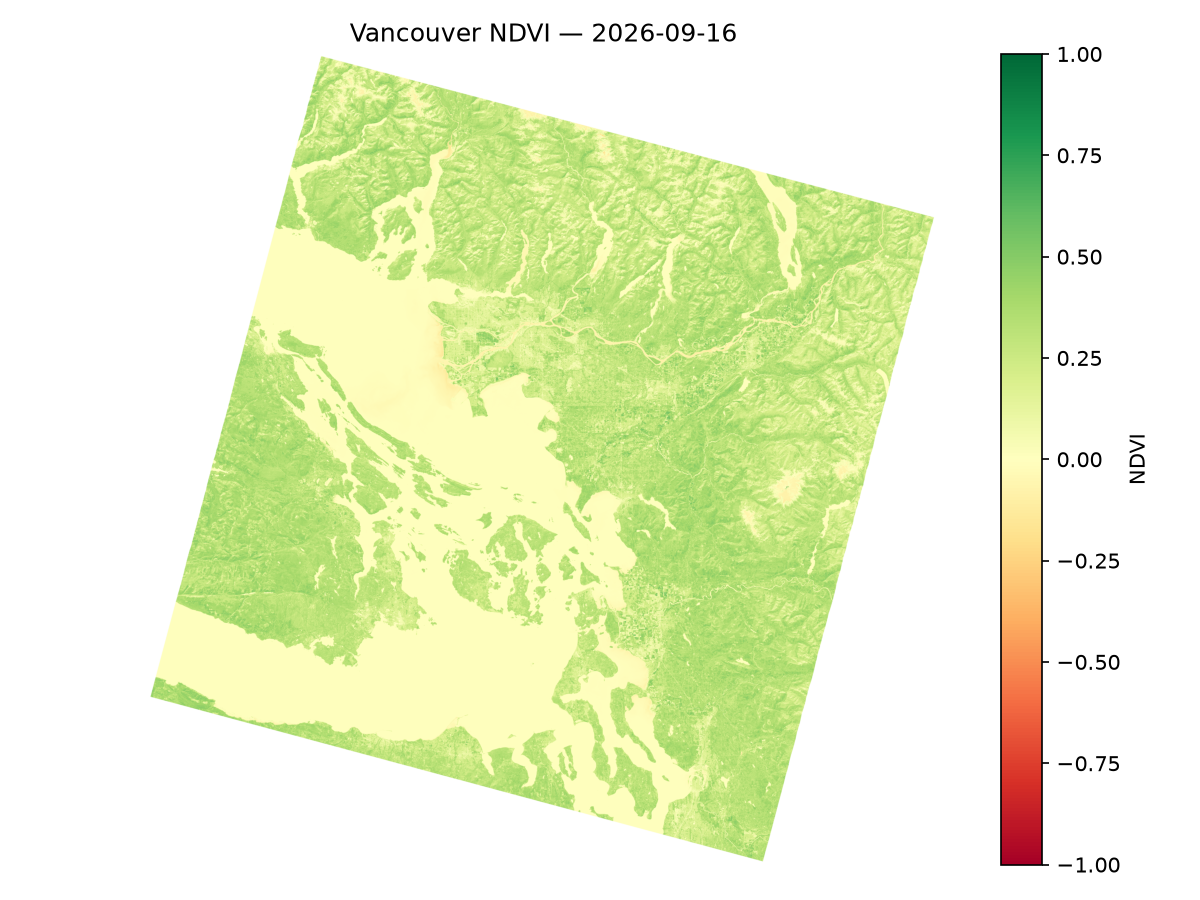
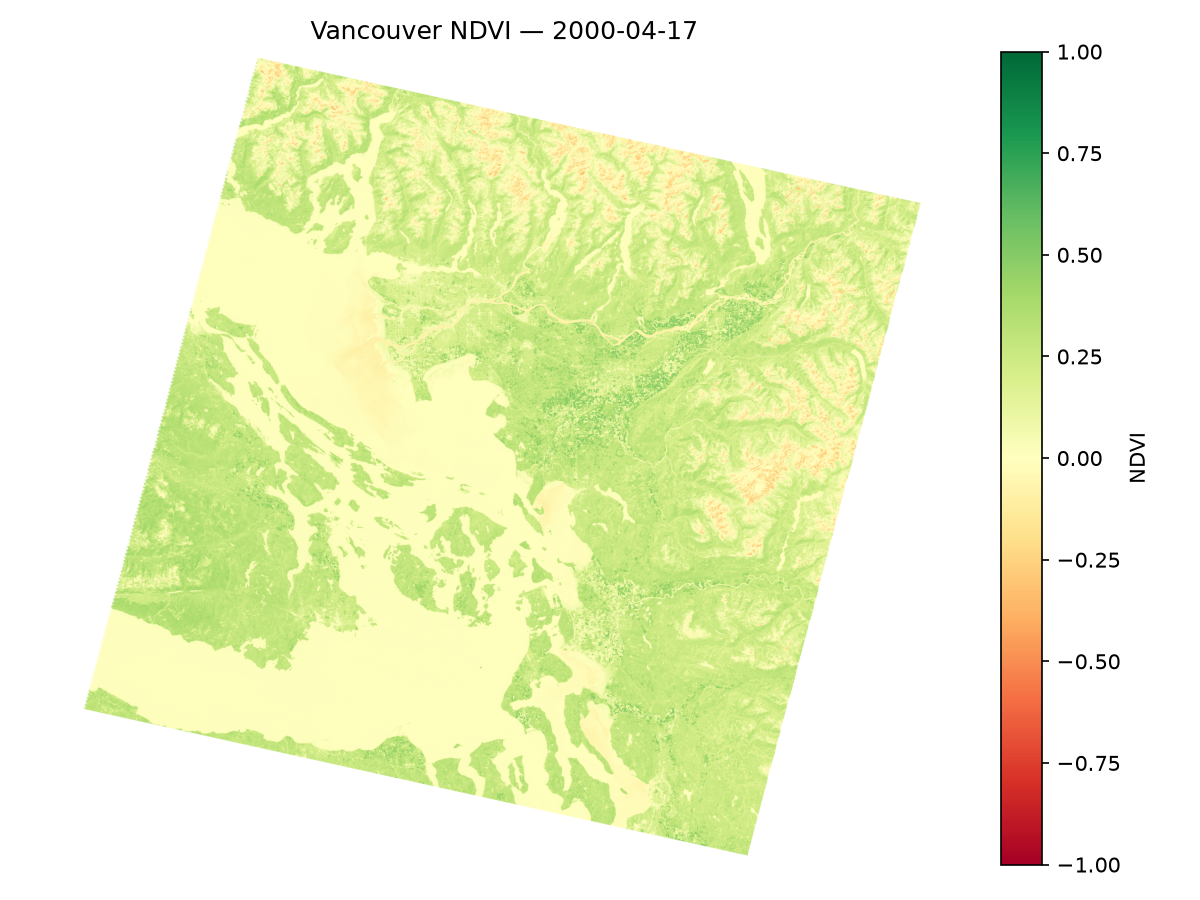
Testing

diff --git a/src/Backend/ImageGenerator.py b/src/Backend/ImageGenerator.py
@@ -1,5 +1,52 @@
-import planetary_computer as pc
 from pystac_client import Client
+import planetary_computer as pc
+
+
+# import planetary_computer
+# import pystac_client
+# import geopandas
+# import rich.table
+# from IPython.display import Image
+
+# print("Opening catalog...", flush=True)
+
+# catalog = pystac_client.Client.open(    
+#     "https://planetarycomputer.microsoft.com/api/stac/v1",
+#     )
+
+# print("Catalog opened!", flush=True)
+
+# time_range = "2025-01-01/2025-12-31"
+# bbox = [-122.96, 49.10, -122.88, 49.17]
+# search = catalog.search(collections=["sentinel-2-l2a"], bbox=bbox, datetime=time_range)
+# items = search.item_collection()
+# print(len(items))
+# print("Item collection!", flush=True)
+
+# selected_item = min(
+#     items,
+#     key=lambda item: item.properties["eo:cloud_cover"]
+# )
+
+# print(selected_item)
+
+
+# df = geopandas.GeoDataFrame.from_features(items.to_dict(), crs="epsg:4326")
+# df
+
+# table = rich.table.Table("Asset Key", "Description")
+# for asset_key, asset in selected_item.assets.items():
+#     table.add_row(asset_key, asset.title)
+
+
+# selected_item.assets["rendered_preview"].to_dict()
+
+# import webbrowser
+
+# map_link = selected_item.get_single_link("preview")
+# webbrowser.open(map_link.href)
+
+
 
 # find a satillite with filtered cloudiness based on longitude and latitude
 class ImageGenerator:
@@ -9,10 +56,11 @@ class ImageGenerator:
     # EFFECTS: connects to satillite imagery catalog from microsoft
     # MODIFIES: datetime
     # format datetime as "YYYY-MM-DD-YYYY-MM-DD"
+
     def __init__(self, datetime : str):
         self.catalog = Client.open(
             "https://planetarycomputer.microsoft.com/api/stac/v1",
-            modifier=pc.sign_inplace,
+            # modifier=pc.sign_inplace,
         )
 
         self.datetime = datetime
@@ -25,10 +73,11 @@ class ImageGenerator:
             bbox = [min_longitude, min_latitude, max_longitude, max_latitude],
             datetime = self.datetime,
             query = {"eo:cloud_cover": {"lt": 20}},     # filters images with les than 20% cloud coverage
-            max_items = 10,
+            # max_items = 10,
         )
-        
+        bbox = [min_longitude, min_latitude, max_longitude, max_latitude]
         self.items = list(search.items())
+        print(f"----------------------------------------------------------------\nItems in {bbox}:\n{len(self.items)}\nIn the time: \n {self.datetime}\n----------------------------------------------------------------\n")
 
     # EFFECTS: filter and get imgs
     def getImg(self):

diff --git a/src/Main.py b/src/Main.py
@@ -4,30 +4,70 @@ import rasterio
 import numpy as np
 import matplotlib.pyplot as plt
 
+import planetary_computer as pc
+
+
 # get img
 
-ImgGenerator1 = ImageGenerator("2000-01-01/2010-01-01")
+
+
+ImgGenerator1 = ImageGenerator("2000-01-01/2000-06-01")
 ImgGenerator1.searchImg(-123.3, 49.1, -122.8, 49.4)
 item = ImgGenerator1.getImg()
 
-ImgGenerator2 = ImageGenerator("2016-01-01/2026-01-01")
+ImgGenerator2 = ImageGenerator("2025-01-01/2025-12-31")
 ImgGenerator2.searchImg(-123.3, 49.1, -122.8, 49.4)
-item2 = ImgGenerator1.getImg()
+item2 = ImgGenerator2.getImg()
 
-print("Image:", item.id)
+
+
+
+print("Image:", item.id, flush = True)
 print("Date:", item.datetime)
 print("Cloud cover:", item.properties.get("eo:cloud_cover"), "%")
+
+
+print("Image:", item2.id, flush = True)
+print("Date:", item2.datetime)
+print("Cloud cover:", item2.properties.get("eo:cloud_cover"), "%")
 
 NDVICompare = Comparator(item, item2)
 
 # 2. Read the red and near-infrared bands
-with rasterio.open(item.assets["red"].href) as src:
+red_url = pc.sign(item.assets["red"].href)
+print("done siging")
+with rasterio.open(red_url) as src:
     red = src.read(1).astype(np.float32)
     profile = src.profile.copy()
 
-with rasterio.open(item.assets["nir08"].href) as src:
+print("done opning")
+
+nir_url = pc.sign(item.assets["nir08"].href)
+print("done signing again")
+
+with rasterio.open(nir_url) as src:
     nir = src.read(1).astype(np.float32)
 
+print("done opening again")
+
+
+
+
+red_url2 = pc.sign(item2.assets["red"].href)
+print("done siging")
+with rasterio.open(red_url2) as src:
+    red2 = src.read(1).astype(np.float32)
+    profile2 = src.profile.copy()
+
+print("done opning")
+
+nir_url2 = pc.sign(item2.assets["nir08"].href)
+print("done signing again")
+
+with rasterio.open(nir_url2) as src:
+    nir2 = src.read(1).astype(np.float32)
+
+print("done opening again")
 
 
 # 3 Calculate NDVI
@@ -37,6 +77,17 @@ ndvi = np.full(red.shape, np.nan, dtype=np.float32)
 
 valid = denominator != 0
 ndvi[valid] = (nir[valid] - red[valid]) / denominator[valid]
+
+
+
+
+denominator2 = nir2 + red2
+ndvi2 = np.full(red2.shape, np.nan, dtype=np.float32)
+
+valid2 = denominator2 != 0
+ndvi2[valid2] = (nir2[valid2] - red2[valid2]) / denominator2[valid2]
+
+
 
 # 4. Display and save the NDVI image
 plt.figure(figsize=(8, 6))
